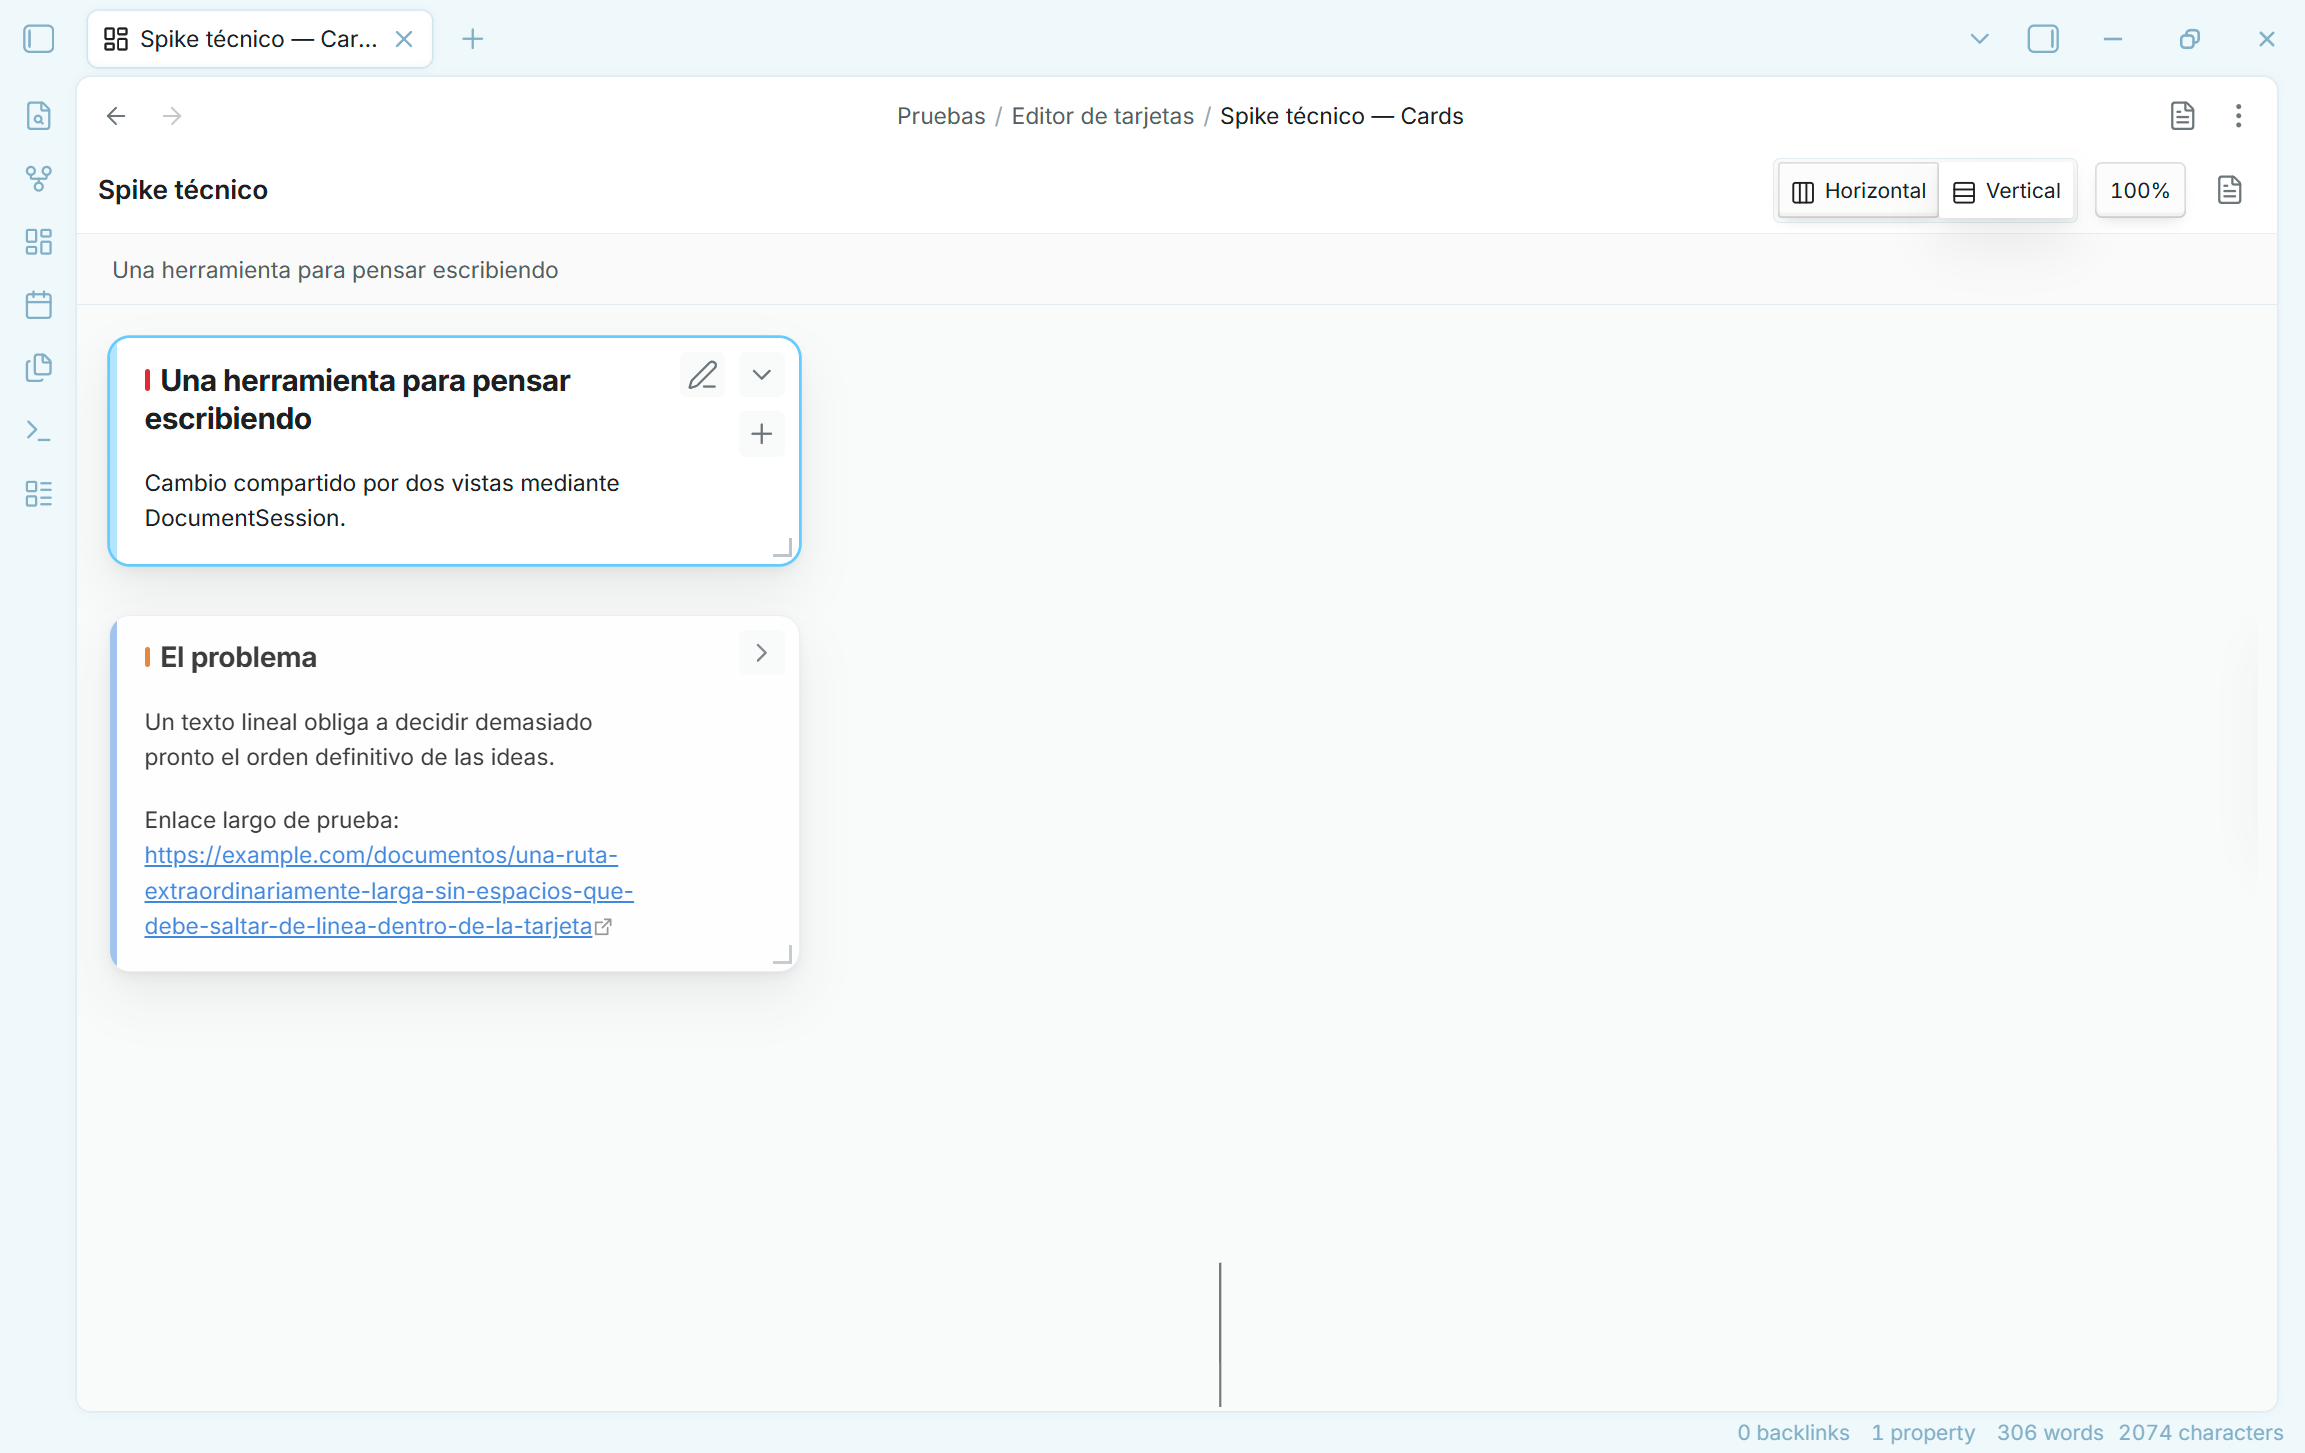
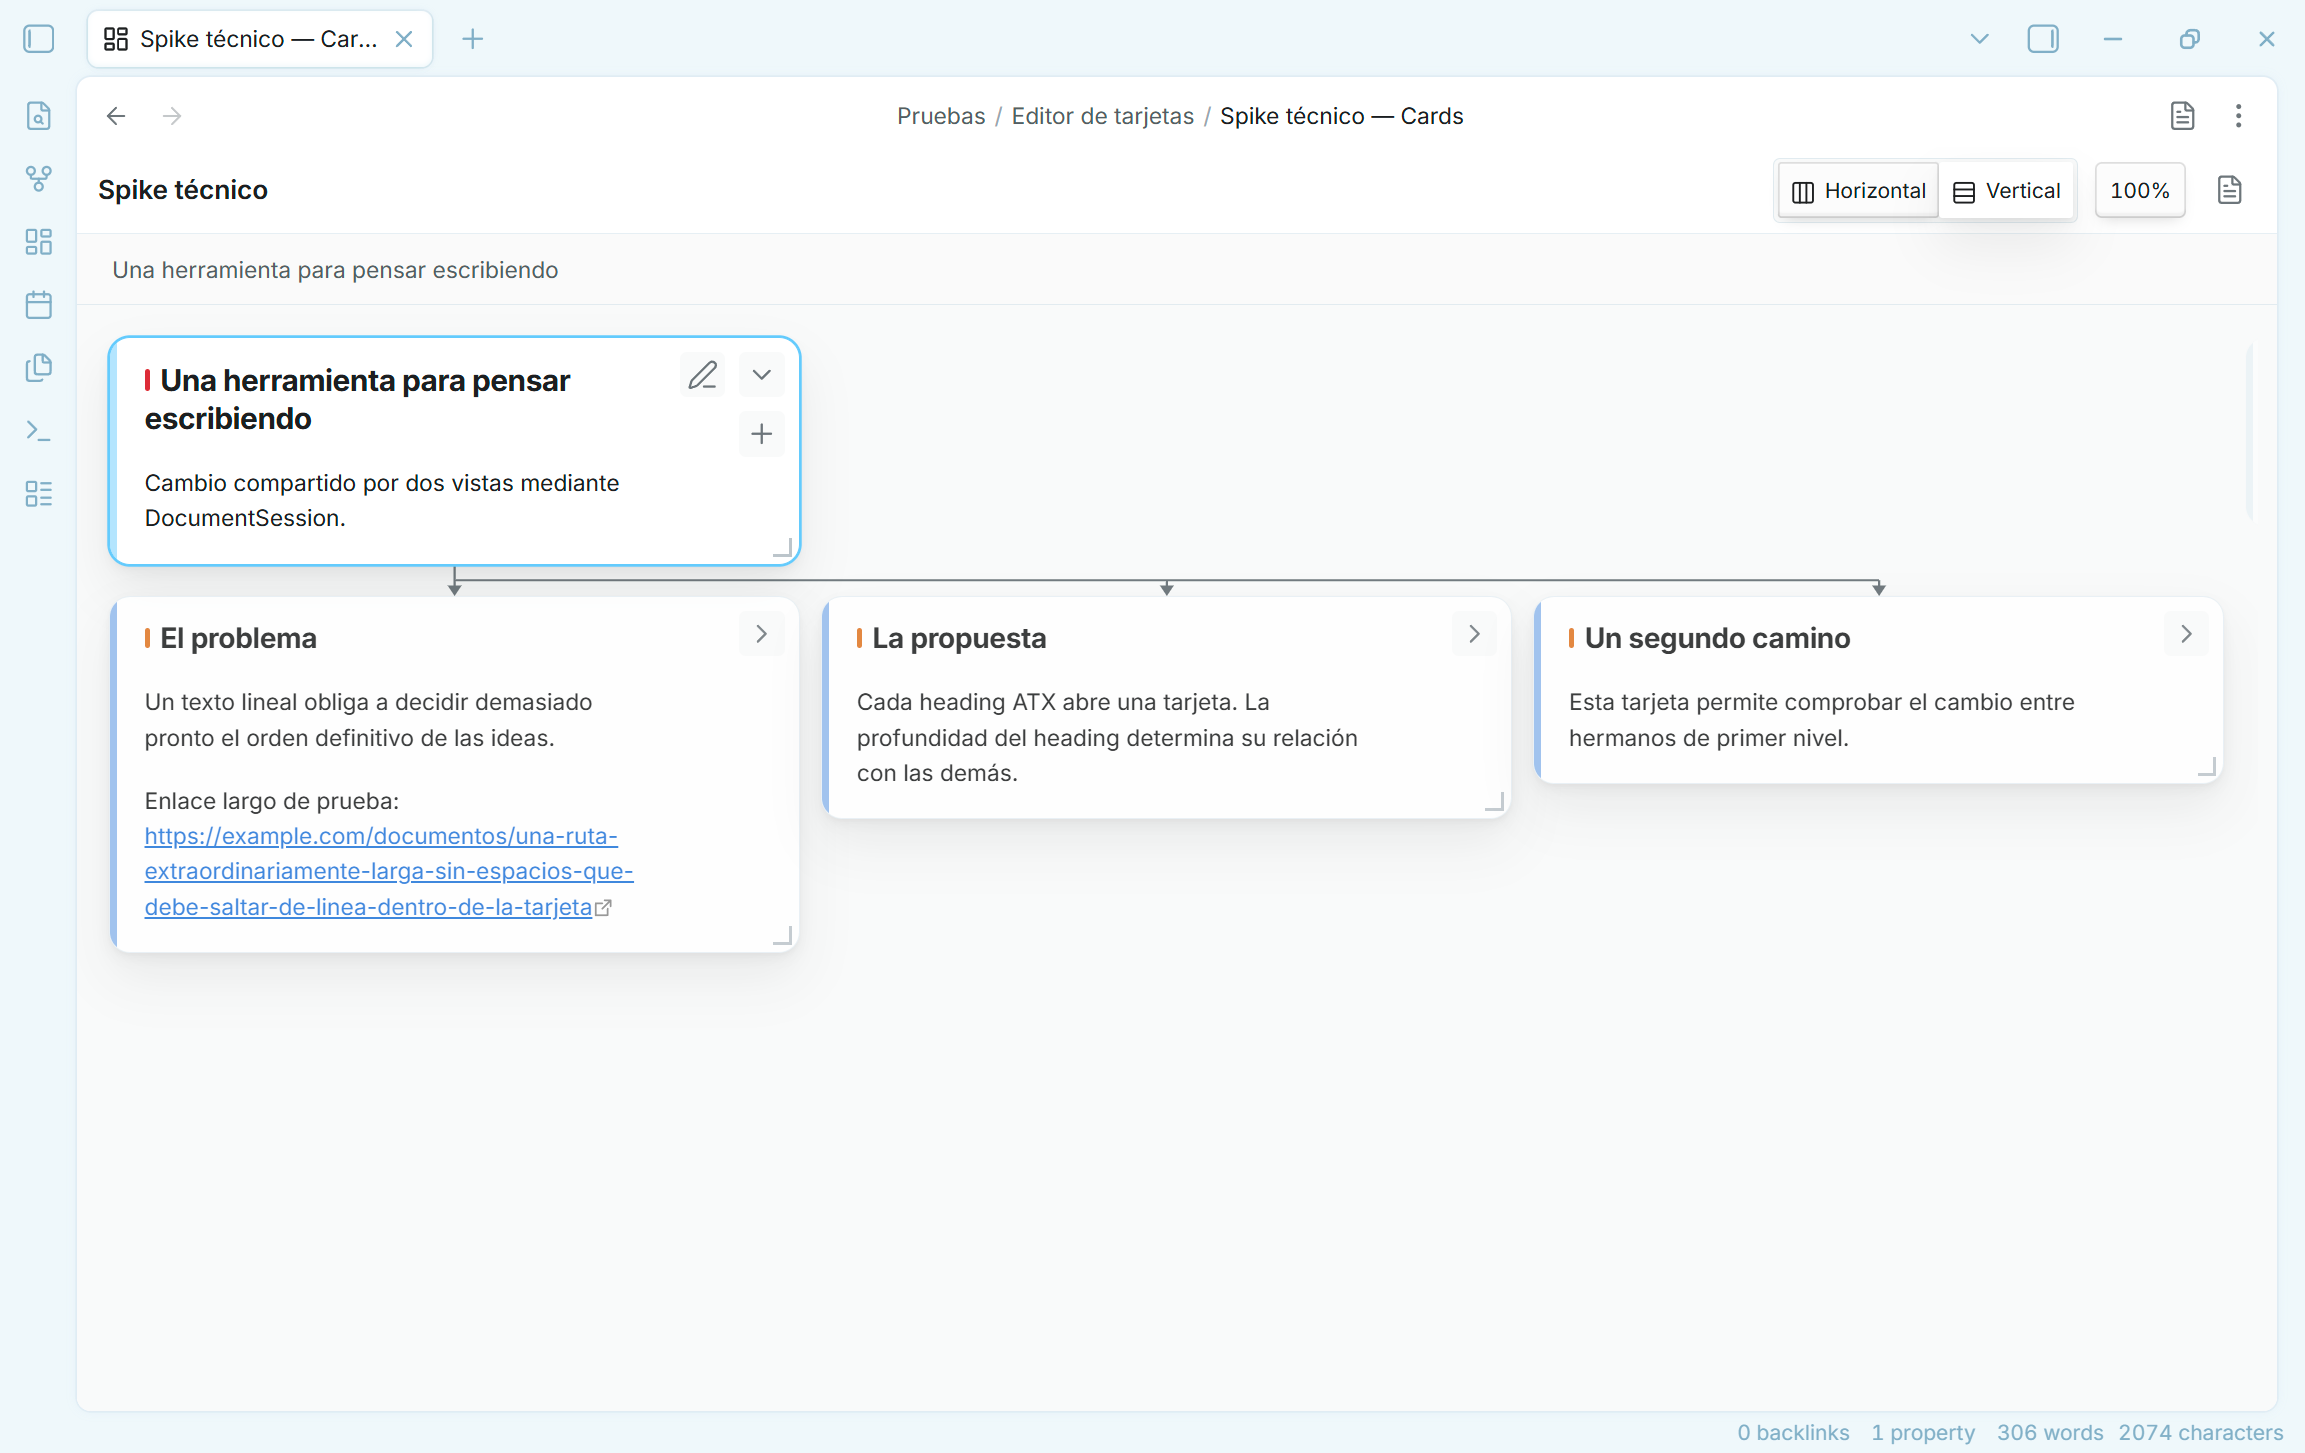
Connect every child with orthogonal arrows

Changed region(s): [[0.0625, 0.4336, 0.2811, 0.6504], [0.3436, 0.4336, 0.5935, 0.5575], [0.656, 0.4336, 0.9059, 0.5265]]

diff --git a/src/view.ts b/src/view.ts
@@ -39,8 +39,7 @@ import { getHierarchyGuidance } from "./hierarchy-guidance";
 import {
   computeBranchAxisLayout,
   getCardEmphasis,
-  getConnectorGeometry,
-  getConnectorPath,
+  getOrthogonalConnectorGeometry,
   getBranchCardIds,
   getLayoutNavigationKeys,
   getOpenBranchDescendants,
@@ -1761,7 +1760,7 @@ export class VisualCardWriterView extends TextFileView {
       }
       surface.style.setProperty("--vcw-surface-width", `${Math.ceil(surfaceWidth)}px`);
       surface.style.setProperty("--vcw-surface-height", `${Math.ceil(surfaceHeight)}px`);
-      this.renderFirstChildConnectors(surface, visibleCards, surfaceWidth, surfaceHeight);
+      this.renderChildConnectors(surface, visibleCards, surfaceWidth, surfaceHeight);
       scene.dataset.worldWidth = String(sceneWidth);
       scene.dataset.worldHeight = String(sceneHeight);
       this.applyZoomGeometry(columnsElement);
@@ -1802,7 +1801,7 @@ export class VisualCardWriterView extends TextFileView {
     });
   }
 
-  private renderFirstChildConnectors(
+  private renderChildConnectors(
     surface: HTMLElement,
     visibleCards: CardNode[],
     surfaceWidth: number,
@@ -1810,10 +1809,13 @@ export class VisualCardWriterView extends TextFileView {
   ): void {
     surface.querySelector(".visual-card-writer-connectors")?.remove();
     const byId = new Map(visibleCards.map((card) => [card.id, card]));
-    const pairs = visibleCards
-      .map((parent) => ({ parent, child: byId.get(parent.children[0] ?? "") }))
-      .filter((pair): pair is { parent: CardNode; child: CardNode } => pair.child != null);
-    if (pairs.length === 0) {
+    const families = visibleCards
+      .map((parent) => ({
+        parent,
+        children: parent.children.map((childId) => byId.get(childId)).filter((child) => child != null)
+      }))
+      .filter((family) => family.children.length > 0);
+    if (families.length === 0) {
       return;
     }
 
@@ -1825,27 +1827,28 @@ export class VisualCardWriterView extends TextFileView {
     svg.setAttribute("viewBox", `0 0 ${Math.ceil(surfaceWidth)} ${Math.ceil(surfaceHeight)}`);
     svg.setAttribute("aria-hidden", "true");
 
-    for (const { parent, child } of pairs) {
+    for (const { parent, children } of families) {
       const parentElement = this.cardElement(parent.id);
-      const childElement = this.cardElement(child.id);
       const parentGroup = parentElement?.parentElement;
-      const childGroup = childElement?.parentElement;
-      if (!parentElement || !childElement || !parentGroup || !childGroup) {
+      const childElements = children
+        .map((child) => this.cardElement(child.id))
+        .filter((element) => element != null);
+      if (!parentElement || !parentGroup || childElements.length === 0) {
         continue;
       }
-      const geometry = getConnectorGeometry(
+      const geometry = getOrthogonalConnectorGeometry(
         {
           left: parentGroup.offsetLeft + parentElement.offsetLeft,
           top: parentGroup.offsetTop + parentElement.offsetTop,
           width: parentElement.offsetWidth,
           height: parentElement.offsetHeight
         },
-        {
-          left: childGroup.offsetLeft + childElement.offsetLeft,
-          top: childGroup.offsetTop + childElement.offsetTop,
+        childElements.map((childElement) => ({
+          left: childElement.parentElement!.offsetLeft + childElement.offsetLeft,
+          top: childElement.parentElement!.offsetTop + childElement.offsetTop,
           width: childElement.offsetWidth,
           height: childElement.offsetHeight
-        },
+        })),
         this.layoutOrientation
       );
       const connector = document.createElementNS(namespace, "g");
@@ -1854,18 +1857,20 @@ export class VisualCardWriterView extends TextFileView {
 
       const line = document.createElementNS(namespace, "path");
       line.classList.add("visual-card-writer-connector-line");
-      line.setAttribute("d", getConnectorPath(geometry, this.layoutOrientation));
+      line.setAttribute("d", geometry.path);
       connector.appendChild(line);
 
-      const arrow = document.createElementNS(namespace, "path");
-      arrow.classList.add("visual-card-writer-connector-arrow");
-      arrow.setAttribute(
-        "d",
-        this.layoutOrientation === "horizontal"
-          ? `M ${geometry.endX} ${geometry.endY} L ${geometry.endX - 6} ${geometry.endY - 4} L ${geometry.endX - 6} ${geometry.endY + 4} Z`
-          : `M ${geometry.endX} ${geometry.endY} L ${geometry.endX - 4} ${geometry.endY - 6} L ${geometry.endX + 4} ${geometry.endY - 6} Z`
-      );
-      connector.appendChild(arrow);
+      for (const tip of geometry.arrowTips) {
+        const arrow = document.createElementNS(namespace, "path");
+        arrow.classList.add("visual-card-writer-connector-arrow");
+        arrow.setAttribute(
+          "d",
+          this.layoutOrientation === "horizontal"
+            ? `M ${tip.x} ${tip.y} L ${tip.x - 6} ${tip.y - 4} L ${tip.x - 6} ${tip.y + 4} Z`
+            : `M ${tip.x} ${tip.y} L ${tip.x - 4} ${tip.y - 6} L ${tip.x + 4} ${tip.y - 6} Z`
+        );
+        connector.appendChild(arrow);
+      }
       svg.appendChild(connector);
     }
     surface.prepend(svg);

diff --git a/src/layout.ts b/src/layout.ts
@@ -27,11 +27,14 @@ export interface CardSurfaceRect {
   height: number;
 }
 
-export interface ConnectorGeometry {
-  startX: number;
-  startY: number;
-  endX: number;
-  endY: number;
+export interface ConnectorPoint {
+  x: number;
+  y: number;
+}
+
+export interface OrthogonalConnectorGeometry {
+  path: string;
+  arrowTips: ConnectorPoint[];
 }
 
 export function groupCardsByDepth(cards: CardNode[]): string[][] {
@@ -191,38 +194,37 @@ export function getLayoutNavigationKeys(orientation: LayoutOrientation): LayoutN
     : { previous: "ArrowLeft", next: "ArrowRight", parent: "ArrowUp", child: "ArrowDown" };
 }
 
-export function getConnectorGeometry(
+export function getOrthogonalConnectorGeometry(
   parent: CardSurfaceRect,
-  child: CardSurfaceRect,
-  orientation: LayoutOrientation
-): ConnectorGeometry {
-  return orientation === "horizontal"
-    ? {
-        startX: parent.left + parent.width,
-        startY: parent.top + parent.height / 2,
-        endX: child.left,
-        endY: child.top + child.height / 2
-      }
-    : {
-        startX: parent.left + parent.width / 2,
-        startY: parent.top + parent.height,
-        endX: child.left + child.width / 2,
-        endY: child.top
-      };
-}
-
-export function getConnectorPath(
-  geometry: ConnectorGeometry,
+  children: CardSurfaceRect[],
   orientation: LayoutOrientation,
   arrowClearance = 4
-): string {
-  const { startX, startY, endX, endY } = geometry;
-  if (orientation === "horizontal") {
-    const lineEndX = Math.max(startX, endX - arrowClearance);
-    const midpoint = (startX + lineEndX) / 2;
-    return `M ${startX} ${startY} C ${midpoint} ${startY}, ${midpoint} ${endY}, ${lineEndX} ${endY}`;
+): OrthogonalConnectorGeometry {
+  if (children.length === 0) {
+    return { path: "", arrowTips: [] };
   }
-  const lineEndY = Math.max(startY, endY - arrowClearance);
-  const midpoint = (startY + lineEndY) / 2;
-  return `M ${startX} ${startY} C ${startX} ${midpoint}, ${endX} ${midpoint}, ${endX} ${lineEndY}`;
+  if (orientation === "horizontal") {
+    const start = { x: parent.left + parent.width, y: parent.top + parent.height / 2 };
+    const arrowTips = children.map((child) => ({ x: child.left, y: child.top + child.height / 2 }));
+    const junctionX = (start.x + Math.min(...arrowTips.map((tip) => tip.x))) / 2;
+    const busMinimum = Math.min(start.y, ...arrowTips.map((tip) => tip.y));
+    const busMaximum = Math.max(start.y, ...arrowTips.map((tip) => tip.y));
+    const segments = [
+      `M ${start.x} ${start.y} H ${junctionX}`,
+      `M ${junctionX} ${busMinimum} V ${busMaximum}`,
+      ...arrowTips.map((tip) => `M ${junctionX} ${tip.y} H ${Math.max(junctionX, tip.x - arrowClearance)}`)
+    ];
+    return { path: segments.join(" "), arrowTips };
+  }
+  const start = { x: parent.left + parent.width / 2, y: parent.top + parent.height };
+  const arrowTips = children.map((child) => ({ x: child.left + child.width / 2, y: child.top }));
+  const junctionY = (start.y + Math.min(...arrowTips.map((tip) => tip.y))) / 2;
+  const busMinimum = Math.min(start.x, ...arrowTips.map((tip) => tip.x));
+  const busMaximum = Math.max(start.x, ...arrowTips.map((tip) => tip.x));
+  const segments = [
+    `M ${start.x} ${start.y} V ${junctionY}`,
+    `M ${busMinimum} ${junctionY} H ${busMaximum}`,
+    ...arrowTips.map((tip) => `M ${tip.x} ${junctionY} V ${Math.max(junctionY, tip.y - arrowClearance)}`)
+  ];
+  return { path: segments.join(" "), arrowTips };
 }

diff --git a/tests/layout.test.ts b/tests/layout.test.ts
@@ -4,8 +4,7 @@ import {
   computeTreeLayout,
   getBranchCardIds,
   getCardEmphasis,
-  getConnectorGeometry,
-  getConnectorPath,
+  getOrthogonalConnectorGeometry,
   getLayoutNavigationKeys,
   getOpenBranchDescendants,
   getVisibleCards,
@@ -173,21 +172,40 @@ describe("orientation-aware layout", () => {
   });
 });
 
-describe("first-child connectors", () => {
+describe("orthogonal child connectors", () => {
   const parent = { left: 10, top: 20, width: 100, height: 60 };
-  const child = { left: 128, top: 110, width: 120, height: 80 };
 
-  it("points from the right edge of a parent to the left edge of its first child in horizontal mode", () => {
-    const geometry = getConnectorGeometry(parent, child, "horizontal");
+  it("branches at right angles from a parent to every visible child in horizontal mode", () => {
+    const geometry = getOrthogonalConnectorGeometry(
+      parent,
+      [
+        { left: 128, top: 110, width: 120, height: 80 },
+        { left: 128, top: 220, width: 120, height: 60 }
+      ],
+      "horizontal"
+    );
 
-    expect(geometry).toEqual({ startX: 110, startY: 50, endX: 128, endY: 150 });
-    expect(getConnectorPath(geometry, "horizontal")).toBe("M 110 50 C 117 50, 117 150, 124 150");
+    expect(geometry.arrowTips).toEqual([
+      { x: 128, y: 150 },
+      { x: 128, y: 250 }
+    ]);
+    expect(geometry.path).toBe("M 110 50 H 119 M 119 50 V 250 M 119 150 H 124 M 119 250 H 124");
   });
 
-  it("points from the bottom edge of a parent to the top edge of its first child in vertical mode", () => {
-    const geometry = getConnectorGeometry(parent, child, "vertical");
+  it("branches at right angles from a parent to every visible child in vertical mode", () => {
+    const geometry = getOrthogonalConnectorGeometry(
+      parent,
+      [
+        { left: 128, top: 110, width: 120, height: 80 },
+        { left: 280, top: 110, width: 80, height: 60 }
+      ],
+      "vertical"
+    );
 
-    expect(geometry).toEqual({ startX: 60, startY: 80, endX: 188, endY: 110 });
-    expect(getConnectorPath(geometry, "vertical")).toBe("M 60 80 C 60 93, 188 93, 188 106");
+    expect(geometry.arrowTips).toEqual([
+      { x: 188, y: 110 },
+      { x: 320, y: 110 }
+    ]);
+    expect(geometry.path).toBe("M 60 80 V 95 M 60 95 H 320 M 188 95 V 106 M 320 95 V 106");
   });
 });

diff --git a/README.md b/README.md
@@ -15,7 +15,7 @@ _GIF showing the UI in action_
 
 - Navigate a Markdown outline as aligned cards in a horizontal or vertical tree.
 - Switch between **Horizontal** and **Vertical** from the editor toolbar; the preference persists across plugin reloads.
-- Follow subtle directional arrows from each card to its first visible child without adding extra space between cards.
+- Follow subtle orthogonal arrows from each card to all its visible direct children without adding extra space between cards.
 - Keep every branch visible with contextual dimming, or collapse complete subtrees.
 - Create child and sibling cards without leaving the visual editor.
 - Edit cards with an embedded CodeMirror 6 editor and essential Live Preview.
@@ -54,7 +54,7 @@ Skipped heading levels do not block the card editor. If an H3 follows an H1, for
 
 ### Horizontal and vertical layouts
 
-Horizontal layout remains the default and grows the hierarchy from left to right. Vertical layout transposes the same tree so hierarchy levels grow downward and sibling branches spread from left to right, which works better in portrait windows. Subtle arrows connect each card to its first visible child and rotate with the layout, making the reading direction explicit without increasing the gaps. Both orientations use the same Markdown, cards, folding state, zoom, editing, and resize controls.
+Horizontal layout remains the default and grows the hierarchy from left to right. Vertical layout transposes the same tree so hierarchy levels grow downward and sibling branches spread from left to right, which works better in portrait windows. Subtle right-angle connectors branch from each card to every visible direct child and rotate with the layout, making both reading direction and sibling relationships explicit without increasing the gaps. Both orientations use the same Markdown, cards, folding state, zoom, editing, and resize controls.
 
 <img src="./vertical-card-layout.png" width="900" alt="Visual Card Writer showing a Markdown hierarchy growing downward in vertical layout">
 

diff --git a/CHANGELOG.md b/CHANGELOG.md
@@ -6,7 +6,7 @@ All notable changes to Visual Card Writer will be documented here.
 
 - Add a persistent **Horizontal / Vertical** orientation control to the card editor. Horizontal remains the default; vertical makes hierarchy levels grow downward and arranges sibling branches from left to right.
 - Rotate spatial keyboard navigation with the selected orientation while preserving the existing shortcuts and behavior in horizontal mode.
-- Draw subtle, non-spacing directional arrows from each card to its first visible child; the arrows point right in horizontal mode and down in vertical mode.
+- Draw subtle, non-spacing right-angle connectors from each card to all its visible direct children; the arrows point right in horizontal mode and down in vertical mode.
 - Keep editing, resizing, branch collapse, panning, zoom, animated selection, and standard Markdown shared between both layouts.
 
 ## 0.1.6
